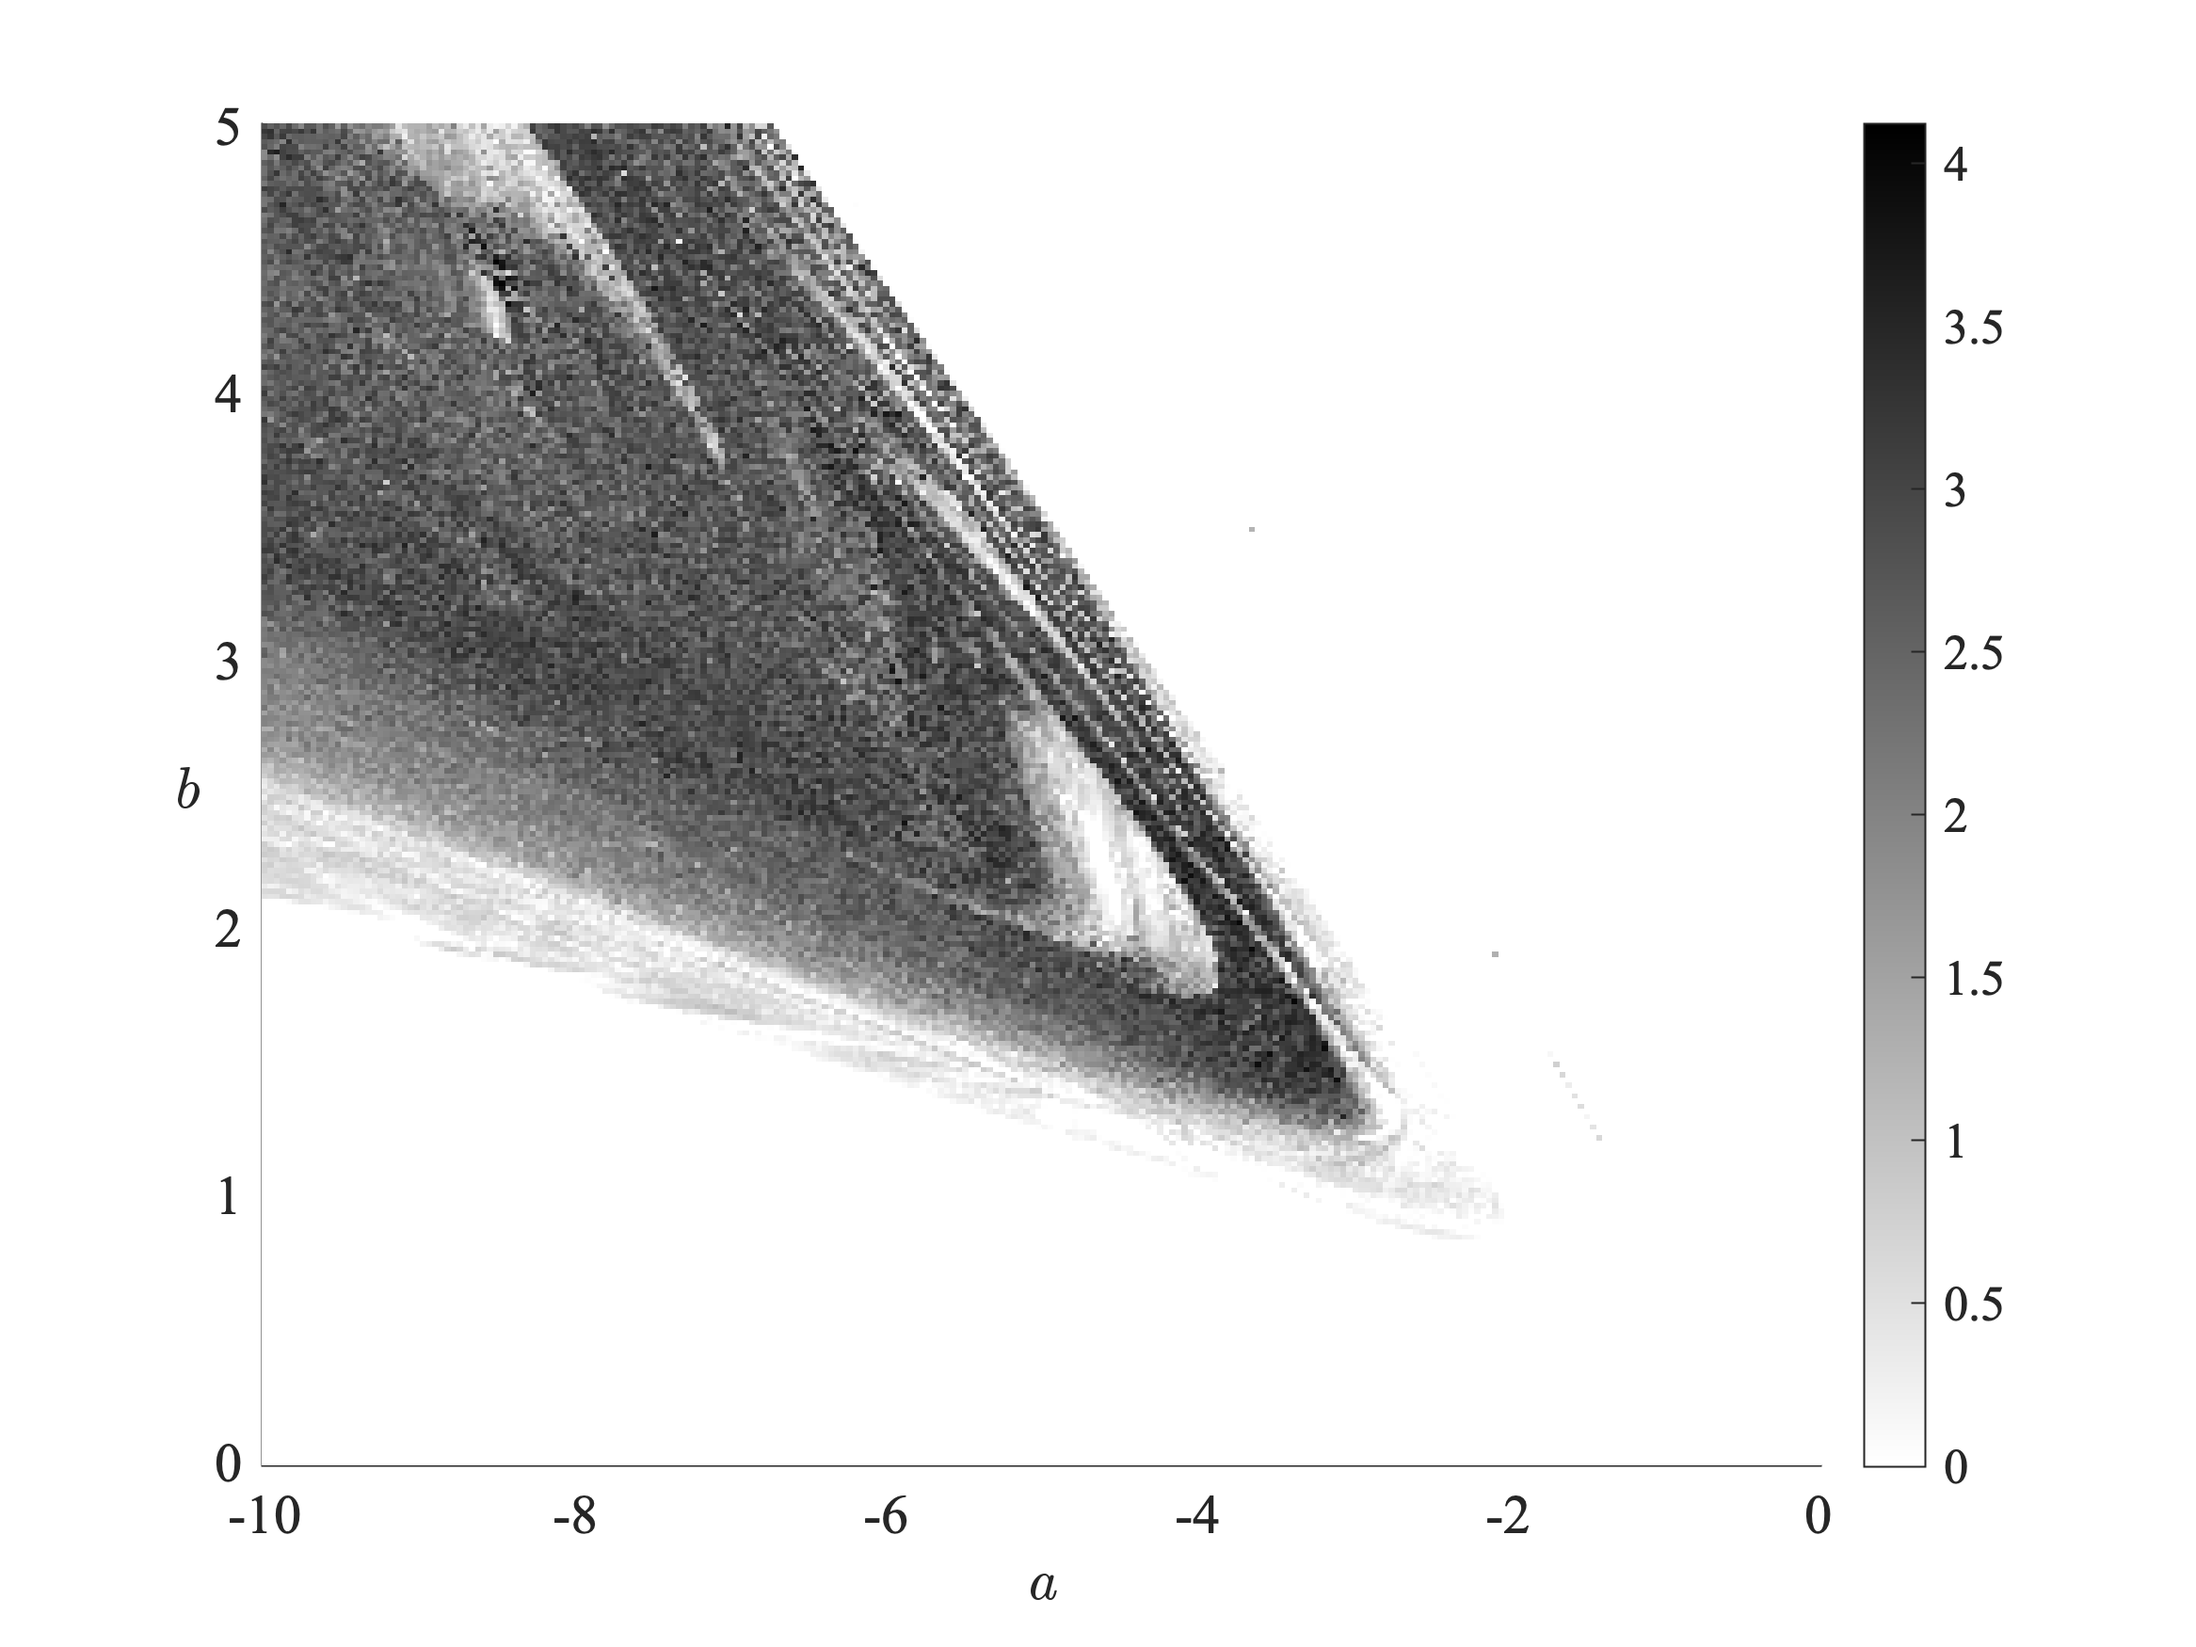
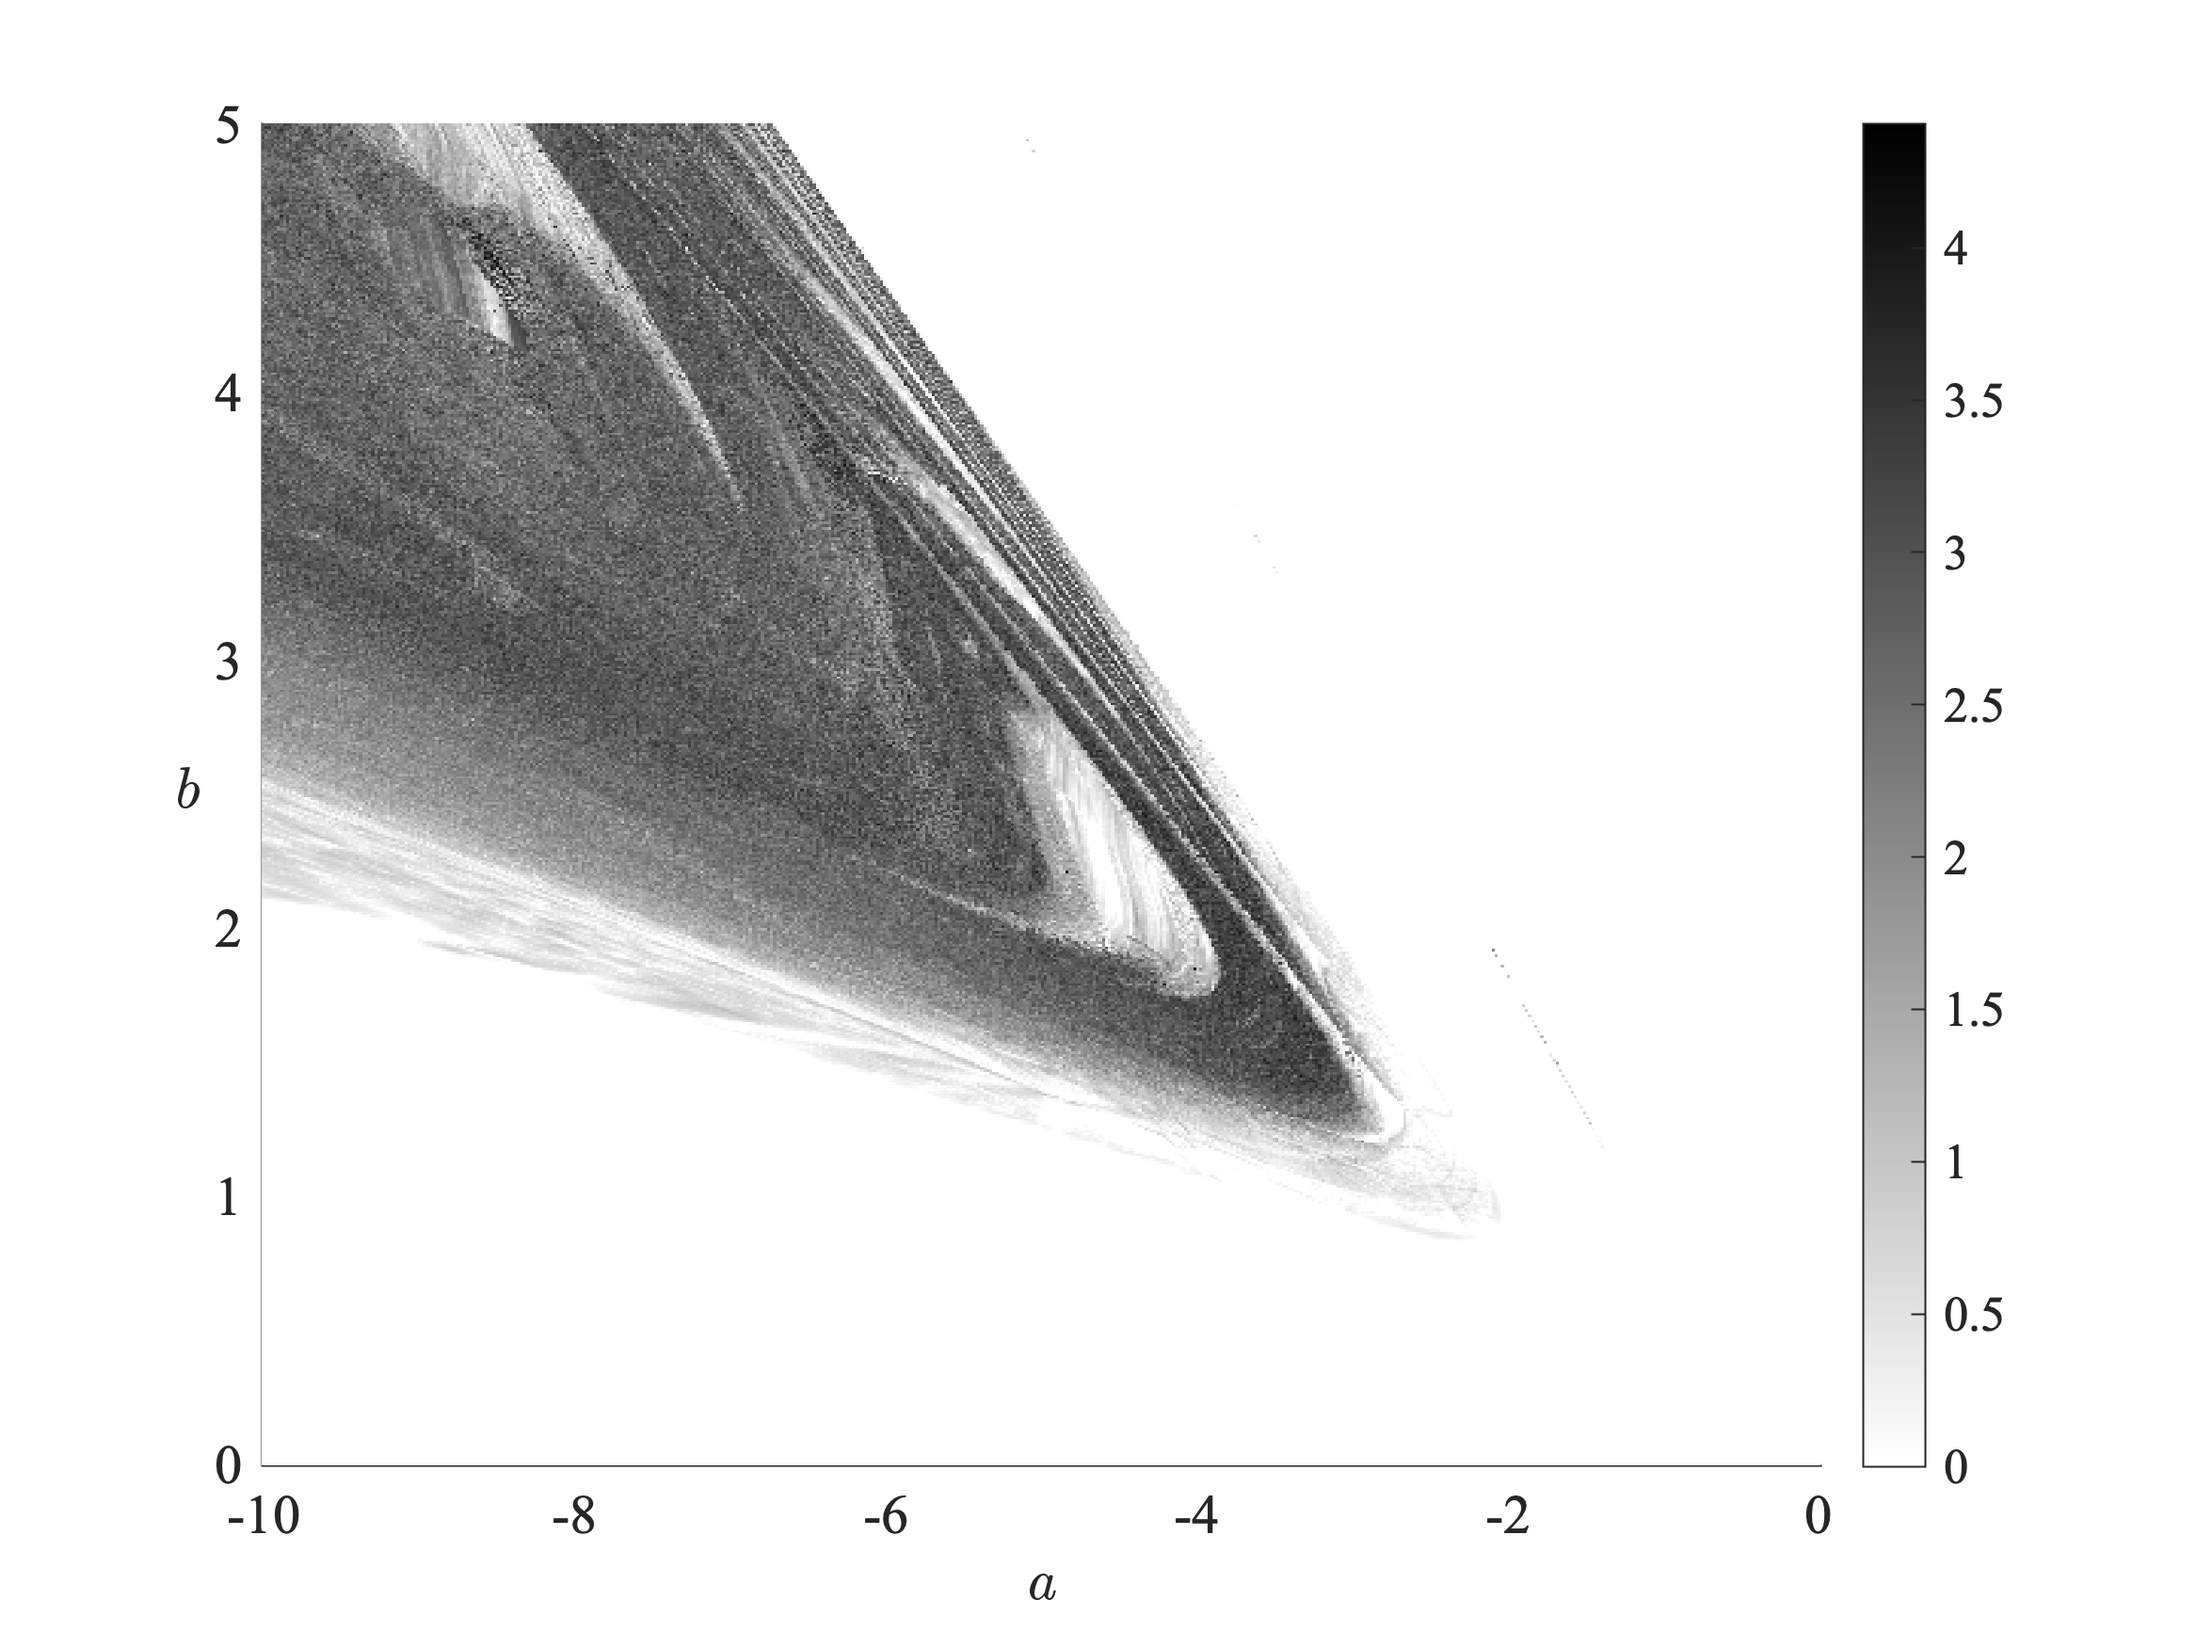
Update figure preparation
Added hi-res LE exponent and updated figure preparation

diff --git a/Code/delay_wilson_cowan.m b/Code/delay_wilson_cowan.m
@@ -380,9 +380,9 @@ print(gcf, '../Figures/Figure_8.png', '-dpng', '-r300');
 save('lambda_max','lambda_max')
 
 %% Alternate Figure 8 Preparation
-le_img = lambda_max - 1.2;
-le_img(le_img < 0) = 0;
-le_img = 2 * (le_img - min(le_img(:))) / (max(le_img(:)) - min(le_img(:)));
+le_img = lambda_max;% - 1.2;
+% le_img(le_img < 0) = 0;
+% le_img = 2 * (le_img - min(le_img(:))) / (max(le_img(:)) - min(le_img(:)));
 
 figure(11);
 clf; hold on
